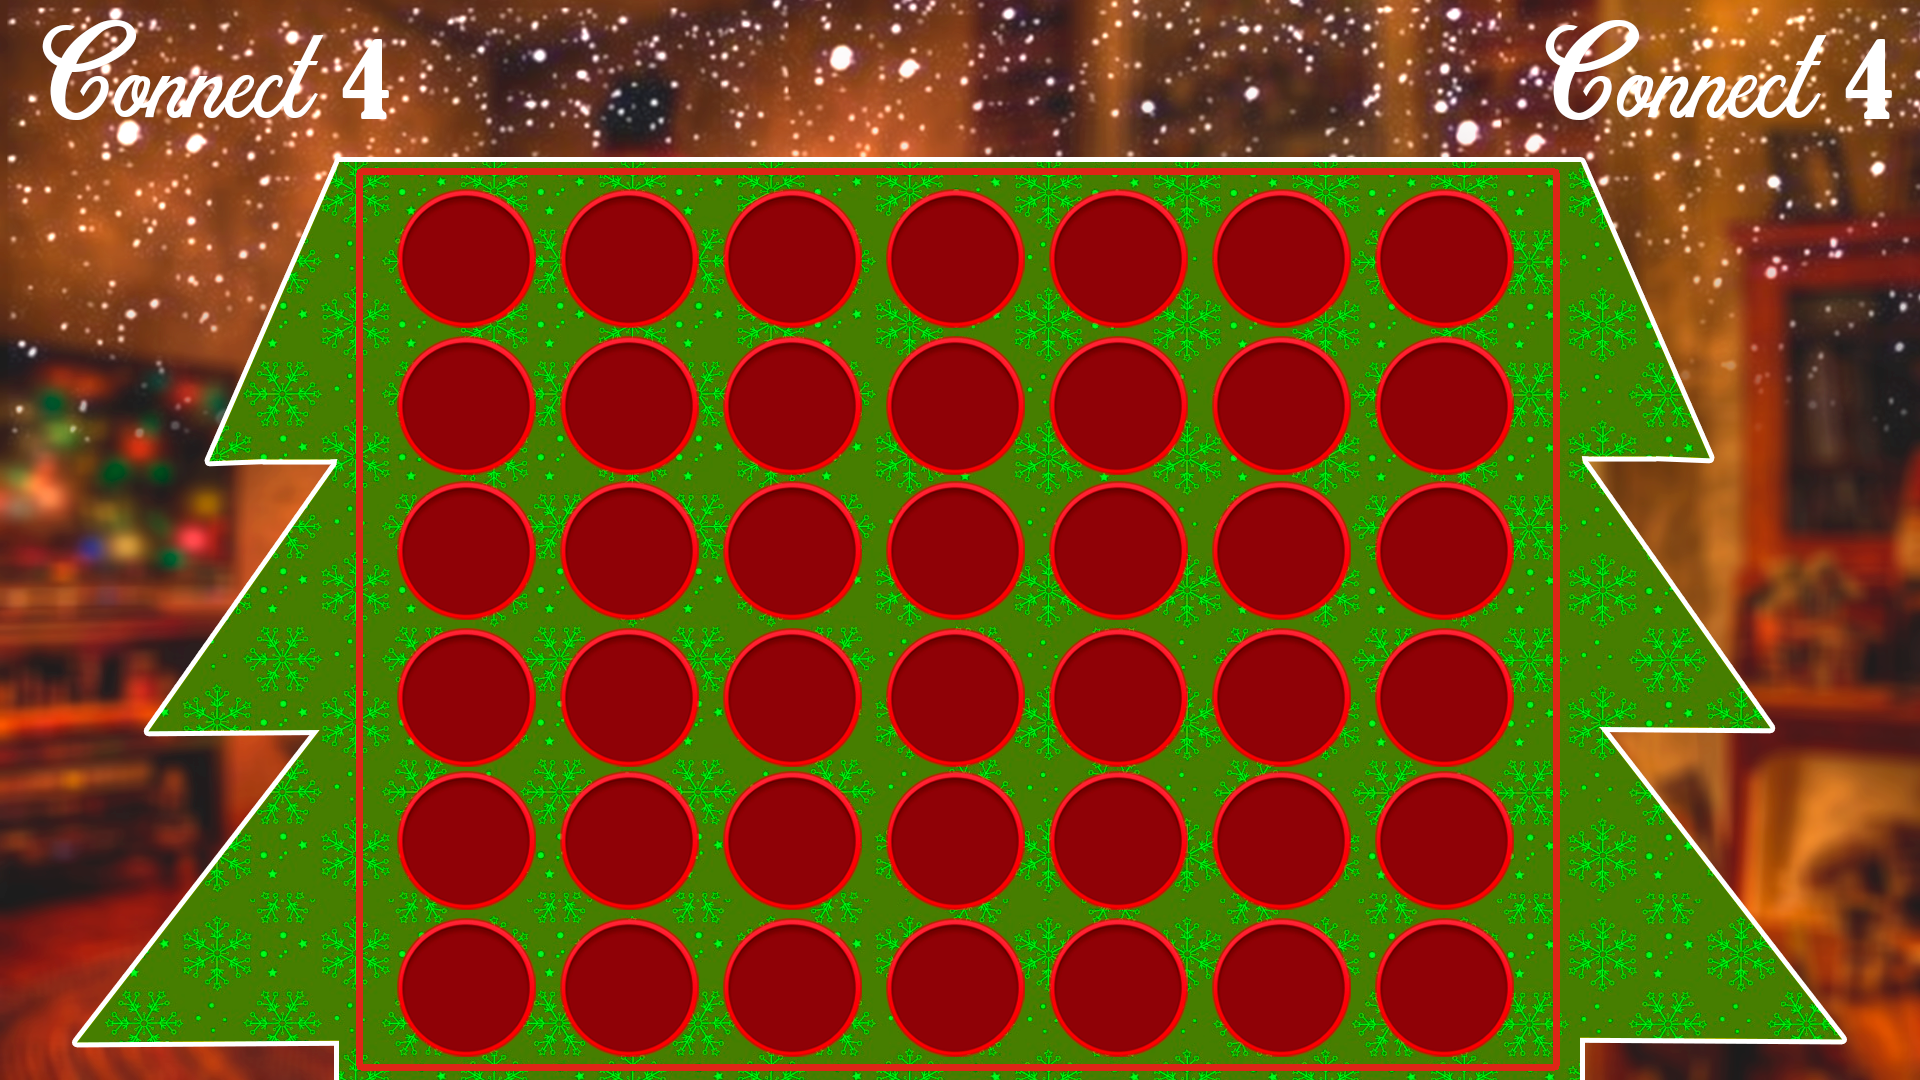
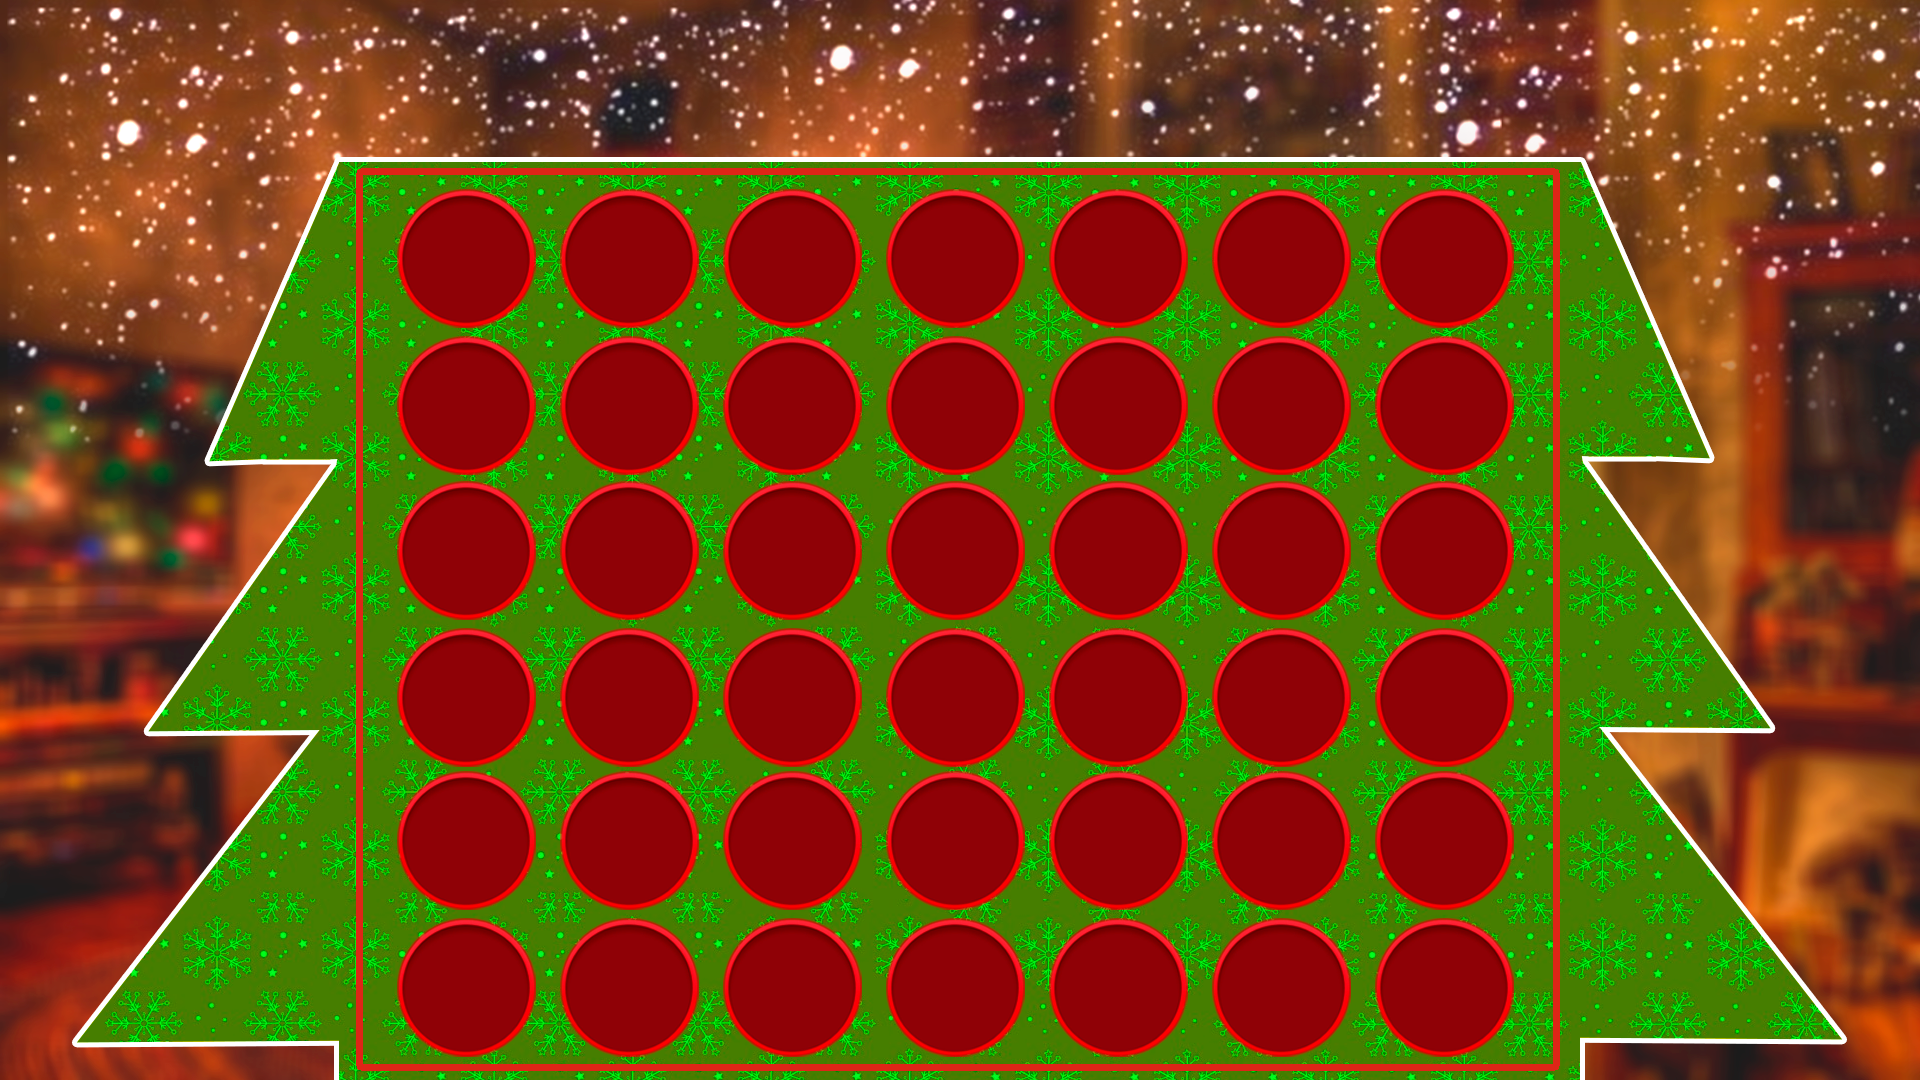
Added printnames to game_screen

Changed region(s): [[0.0, 0.0, 0.2188, 0.1222], [0.7812, 0.0, 1.0, 0.1222]]

diff --git a/utilities.py b/utilities.py
@@ -1,11 +1,10 @@
+import pygame as pg
 import numpy as np
 import random
 import math
-import time
 
-import pygame as pg
-from settings import Settings
 from ending_screens import EndingScreen
+from settings import Settings
 
 
 class UtilitiesMain:
@@ -20,7 +19,6 @@ class UtilitiesMain:
         self.background_image = self.config.bg_image
         self.chip_1 = self.config.chip_1
         self.chip_2 = self.config.chip_2
-        self.width = self.config.width
         self.width = self.config.width
         self.font = self.config.font
         self.zero = 0
@@ -89,11 +87,11 @@ class UtilitiesMain:
             else:
                 return 0
 
-    def draw_board(self, matrix: np.ndarray, start_time, clock) -> None:
+    def draw_board(self, matrix: np.ndarray, start_time, clock, usernames) -> None:
         self.screen.blit(self.background_image, (0, 0))
 
         start_time = self.timer(start_time, clock)
-
+        self.print_names(usernames)
         for column in range(self.COLUMN_AMOUNT):
             for row in range(self.ROW_AMOUNT):
 
@@ -236,16 +234,18 @@ class UtilitiesMain:
         else:
             pass
 
+        y = 41 if self.width != 1280 else 27
+
         textTime = self.font.render(timeF, True, (255, 255, 255))
 
-        self.screen.blit(textTime, (self.width // 2, 15 - 15))
+        self.screen.blit(textTime, (self.width // 2 - 15, y))
 
         return start_time
 
     def playersTurn(
         self,
         column: int,
-        matrix: np.ndarray,
+        matrix,
         player_turn,
         sound_chip_1,
         sound_chip_2,
@@ -272,7 +272,7 @@ class UtilitiesMain:
 
             if self.is_victory(matrix, turn) or self.is_tie(matrix):
 
-                self.draw_board(matrix, start_time, clock)
+                self.draw_board(matrix, start_time, clock, usernames)
 
                 pg.time.wait(500)
 
@@ -292,59 +292,59 @@ class UtilitiesMain:
 
         return play_again, turn, chip
 
-    def evaluate_window(self, window, piece):
+    def evaluate_window(self, window, chip):
         score = 0
-        opp_piece = self.player_chip
+        opp_chip = self.player_chip
 
-        if piece == self.player_chip:
-            opp_piece = self.ai_chip
+        if chip == self.player_chip:
+            opp_chip = self.ai_chip
 
-        if window.count(piece) == 4:
+        if window.count(chip) == 4:
             score += 100
 
-        elif window.count(piece) == 3 and window.count(self.zero) == 1:
+        elif window.count(chip) == 3 and window.count(self.zero) == 1:
             score += 5
 
-        elif window.count(piece) == 2 and window.count(self.zero) == 2:
+        elif window.count(chip) == 2 and window.count(self.zero) == 2:
             score += 2
 
-        if window.count(opp_piece) == 3 and window.count(self.zero) == 1:
+        if window.count(opp_chip) == 3 and window.count(self.zero) == 1:
             score -= 4
 
         return score
 
-    def score_position(self, board, piece):
+    def score_position(self, matrix, chip):
         score = 0
 
         ## Score center column
-        center_array = [int(i) for i in list(board[:, self.COLUMN_AMOUNT // 2])]
-        center_count = center_array.count(piece)
+        center_array = [int(i) for i in list(matrix[:, self.COLUMN_AMOUNT // 2])]
+        center_count = center_array.count(chip)
         score += center_count * 3
 
         ## Score Horizontal
         for r in range(self.ROW_AMOUNT):
-            row_array = [int(i) for i in list(board[r, :])]
+            row_array = [int(i) for i in list(matrix[r, :])]
             for c in range(self.COLUMN_AMOUNT - 3):
                 window = row_array[c : c + self.WINDOWS_LENGHT]
-                score += self.evaluate_window(window, piece)
+                score += self.evaluate_window(window, chip)
 
         ## Score Vertical
         for c in range(self.COLUMN_AMOUNT):
-            col_array = [int(i) for i in list(board[:, c])]
+            col_array = [int(i) for i in list(matrix[:, c])]
             for r in range(self.ROW_AMOUNT - 3):
                 window = col_array[r : r + self.WINDOWS_LENGHT]
-                score += self.evaluate_window(window, piece)
+                score += self.evaluate_window(window, chip)
 
         ## Score positive sloped diagonal
         for r in range(self.ROW_AMOUNT - 3):
             for c in range(self.COLUMN_AMOUNT - 3):
-                window = [board[r + i][c + i] for i in range(self.WINDOWS_LENGHT)]
-                score += self.evaluate_window(window, piece)
+                window = [matrix[r + i][c + i] for i in range(self.WINDOWS_LENGHT)]
+                score += self.evaluate_window(window, chip)
 
         for r in range(self.ROW_AMOUNT - 3):
             for c in range(self.COLUMN_AMOUNT - 3):
-                window = [board[r + 3 - i][c + i] for i in range(self.WINDOWS_LENGHT)]
-                score += self.evaluate_window(window, piece)
+                window = [matrix[r + 3 - i][c + i] for i in range(self.WINDOWS_LENGHT)]
+                score += self.evaluate_window(window, chip)
 
         return score
 
@@ -412,3 +412,19 @@ class UtilitiesMain:
                     break
 
             return column, value
+
+    def print_names(self, usernames):
+        name_1 = usernames[0]
+        name_2 = "AI" if len(usernames) == 1 else usernames[1]
+
+        name_1 = name_1[:10] if len(name_1) > 10 else name_1
+        name_2 = name_2[:10] if len(name_2) > 10 else name_2
+
+        x_2 = 1610 if self.width != 1280 else 1000
+        y = 41 if self.width != 1280 else 30
+
+        name_text_1 = self.font.render(name_1, True, (255, 255, 255))
+        name_text_2 = self.font.render(name_2, True, (255, 255, 255))
+
+        self.screen.blit(name_text_1, (43, y))
+        self.screen.blit(name_text_2, (x_2, y))

diff --git a/main_screen.py b/main_screen.py
@@ -65,8 +65,10 @@ class MainScreen:
         pg.mixer.music.play(loops=-1)
         pg.mixer.music.set_volume(self.volume)
         while not close_loop:
-            start_time = utilities.draw_board(matrix, start_time, clock)
+            start_time = utilities.draw_board(matrix, start_time, clock, usernames)
+
             self.screen.blit(chip, (x, y))
+
             for event in pg.event.get():
                 if event.type == pg.QUIT:
                     close_loop = True
@@ -80,6 +82,8 @@ class MainScreen:
                 if event.type == pg.MOUSEMOTION:
                     x = event.pos[0]
                     y = event.pos[1]
+
+                print(x, y)
 
                 if event.type == pg.MOUSEBUTTONDOWN:
                     save_chip = chip
@@ -103,6 +107,7 @@ class MainScreen:
 
                         if chip == None:
                             chip = save_chip
+
                 if self.is_controller:
                     if control.isControllerDropEvent(event):
                         save_chip = chip
@@ -147,7 +152,7 @@ class MainScreen:
                     utilities.drop_piece(matrix, row, column, self.ai_chip)
 
                     if utilities.is_victory(matrix, self.ai_chip):
-                        utilities.draw_board(matrix, start_time, clock)
+                        utilities.draw_board(matrix, start_time, clock, usernames)
 
                         pg.time.wait(500)
 
